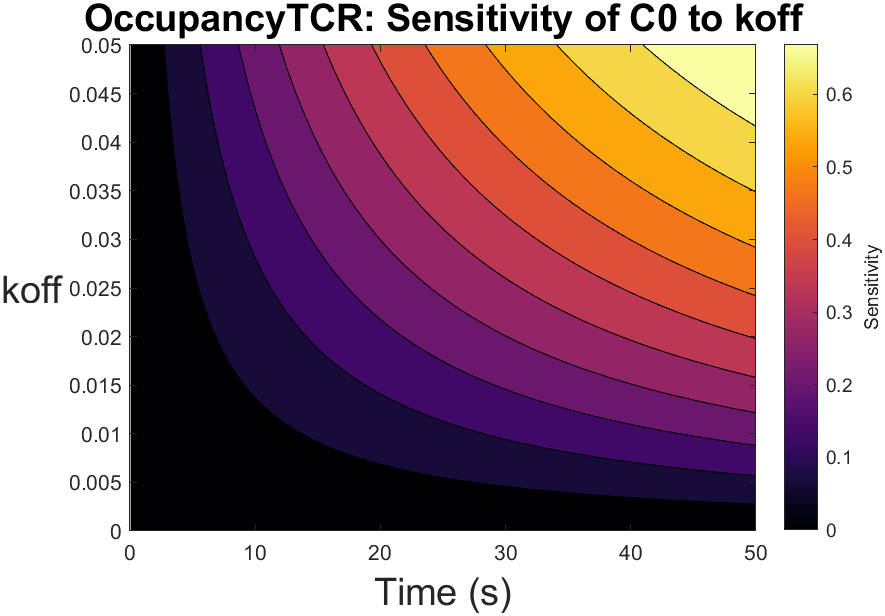
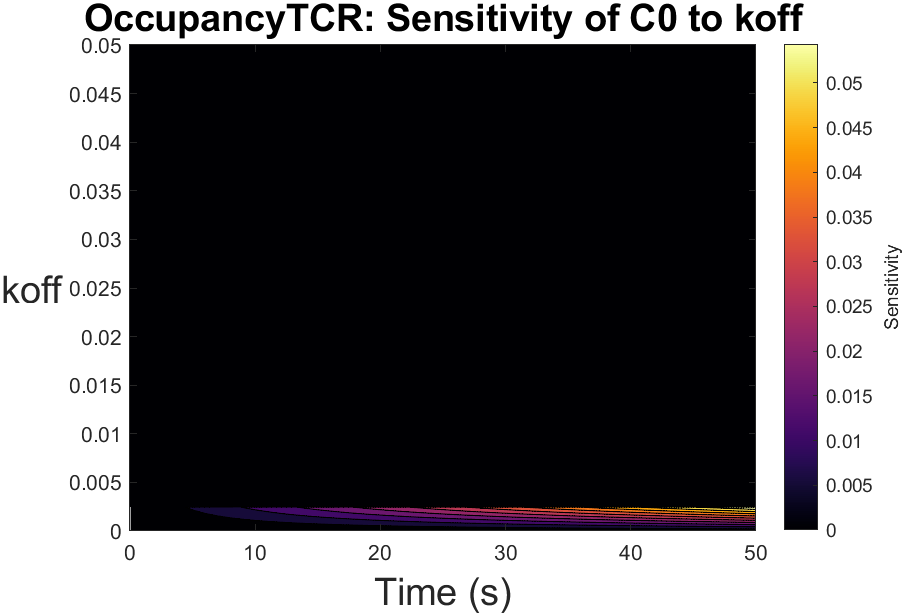
Error Catastrófico, hay que revisar bien el código y comparar resultados con el código original
Se usaba t_end como el número de muestras en donde se iba a analizar el parámetro dentro del rango de 0 hasta max(param). Revisar las otras cosas para que esto no ocurra en otros puntos.

diff --git a/v.5/src/SensitivityOrganizer.m b/v.5/src/SensitivityOrganizer.m
@@ -30,9 +30,10 @@ function SensitivityOrganizer()
     % (Puede ser con cálculo paralelo o de manera normal)
     for pI = 1:num_params  
         tic
+
         rango_max_param = 5 * param_values_original(pI);
-        ModelVect = linspace(0, rango_max_param, t_end);
-        results_matrix = zeros(t_end, length(tspan));
+        ModelVect = linspace(0, rango_max_param, model.number_samples);
+        results_matrix = zeros(model.number_samples, length(model.tspan));
     
         if opts.usar_paralelo
         
@@ -43,14 +44,14 @@ function SensitivityOrganizer()
             rel_tol = opts.rel_tol;
             abs_tol = opts.abs_tol;
 
-            parfor i = 1:t_end
+            parfor i = 1:model.t_end
 
                 local_params = param_values_original;
                 local_params(pI) = ModelVect(i);
                 p = complex(local_params, 0);        
         
                 % Run the ODE integration with the modified parameters
-                sol = sensitivityMain(x0_real, p, d, tspan, ode_function, solver, rel_tol, abs_tol);
+                sol = sensitivityMain(x0_real, p, d, model.tspan, ode_function, solver, rel_tol, abs_tol);
         
                 % Extract the response corresponding to the status of interest
                 response = sol{model.state_index}(:, pI + 1);
@@ -59,14 +60,14 @@ function SensitivityOrganizer()
             end
         else
     
-            for i = 1:t_end
+            for i = 1:model.t_end
         
                 local_params = param_values_original;
                 local_params(pI) = ModelVect(i);
                 p = complex(local_params, 0);        
         
                 % Run the ODE integration with the modified parameters
-                sol = sensitivityMain(x0_real, p, opts.d, tspan, ode_function, opts.solver, opts.rel_tol, opts.abs_tol);
+                sol = sensitivityMain(x0_real, p, opts.d, model.tspan, ode_function, opts.solver, opts.rel_tol, opts.abs_tol);
         
                 % Extract the response corresponding to the status of interest
                 response = sol{model.state_index}(:, pI + 1);
@@ -76,7 +77,7 @@ function SensitivityOrganizer()
     
         end
     
-        PlotResults(results_matrix, ode_function, model.param_values, model.x0, tspan, ModelVect, pI, model.state_index, opts.modelname, model.param_names, model.state_names, opts.solver, opts.rel_tol, opts.abs_tol, opts.visualization_choice);
+        PlotResults(results_matrix, ode_function, model.param_values, model.x0, model.tspan, ModelVect, pI, model.state_index, opts.modelname, model.param_names, model.state_names, opts.solver, opts.rel_tol, opts.abs_tol, opts.visualization_choice);
         disp(['Generated figures for parameter ' num2str(pI) ' of ' num2str(length(model.param_values))]);
         toc
     end

diff --git a/v.5/models/OccupancyTCR_options.m b/v.5/models/OccupancyTCR_options.m
@@ -3,18 +3,19 @@
 % =========================================================================        
 
 % === PARAMETER CONFIGURATION ===
-param_values =[5e-5, 0.01];
-param_names = {'kon', 'koff'};
+model.param_values =[5e-5, 0.01];
+model.param_names = {'kon', 'koff'};
+model.number_samples = 1000;
 
 % === INITIAL CONDITIONS ===
-x0 = complex([0, 100, 2e4], 0);
-state_names = {'C0', 'L', 'R'};
+model.x0 = complex([0, 100, 2e4], 0);
+model.state_names = {'C0', 'L', 'R'};
 
 % === STATE TO ANALYZE ===
-state_index = 1;
+model.state_index = 1;
 
 % === TIME CONFIGURATION ===
-step_size = 0.05;
-t_end     = 50;
-tspan     = 0.0:step_size:t_end;
+model.step_size = 0.05;
+model.t_end     = 50;
+model.tspan     = 0.0:model.step_size:model.t_end;
 

diff --git a/v.5/models/CART_options.m b/v.5/models/CART_options.m
@@ -5,6 +5,7 @@
 % === PARAMETER CONFIGURATION ===
 model.param_values = [1, 0.1, 0.3, 1, 0.01, 10^-8, 1.5, 0.01, 0.1, 4.25e12, 1, 1e3, 1e8, 1e10, 5e9, 0.1, 1.0, 1e-8, 1.0, 0.01, 1e-11, 1e-12, 1e-11];   
 model.param_names = {'η', 'μ_I', 'ν', 'κ', 'ϵ', 'θ', 'μ_E', 'μ_P', 'ρ', 'K', 'γ', 'A', 'B', 'C', 'σ_M', 'δ_M', 'σ_I', 'α', 'δ_I', 'g_0', 'β_B', 'β_K', 'β_C'};
+model.number_samples = 1000;
 
 % === INITIAL CONDITIONS ===
 model.x0 = complex([1.33e6, 10, 10, 1e8, 2.5e5, 1e11, 10, 1], 0);
@@ -16,5 +17,5 @@ model.state_index = 1;
 % === TIME CONFIGURATION ===
 model.step_size = 0.05;
 model.t_end     = 50;
-model.tspan     = 0.0:step_size:t_end;
+model.tspan     = 0.0:model.step_size:model.t_end;
 

diff --git a/v.5/models/HCART_options.m b/v.5/models/HCART_options.m
@@ -5,6 +5,7 @@
 % === PARAMETER CONFIGURATION ===
 param_values =[0.265, 0.35, 0.15, 6e-6, 4.5e-8, 0.005, 0.0565, 1.404e-12, 3.72e-6];
 param_names = {'φ', 'ρ', 'ϵ', 'θ', 'α', 'μ', 'r', 'b', 'γ'};
+model_number_samples = 1000;
 
 % === INITIAL CONDITIONS ===
 x0 = complex([2e6, 0, 2e6], 0);
@@ -14,7 +15,8 @@ state_names = {'C_T', 'C_M', 'T'};
 state_index = 3;
 
 % === TIME CONFIGURATION ===
-step_size = 0.05;
-t_end     = 50;
-tspan     = 0.0:step_size:t_end;
+model.step_size = 0.05;
+model.t_end     = 50;
+model.tspan     = 0.0:model.step_size:model.t_end;
+
 
